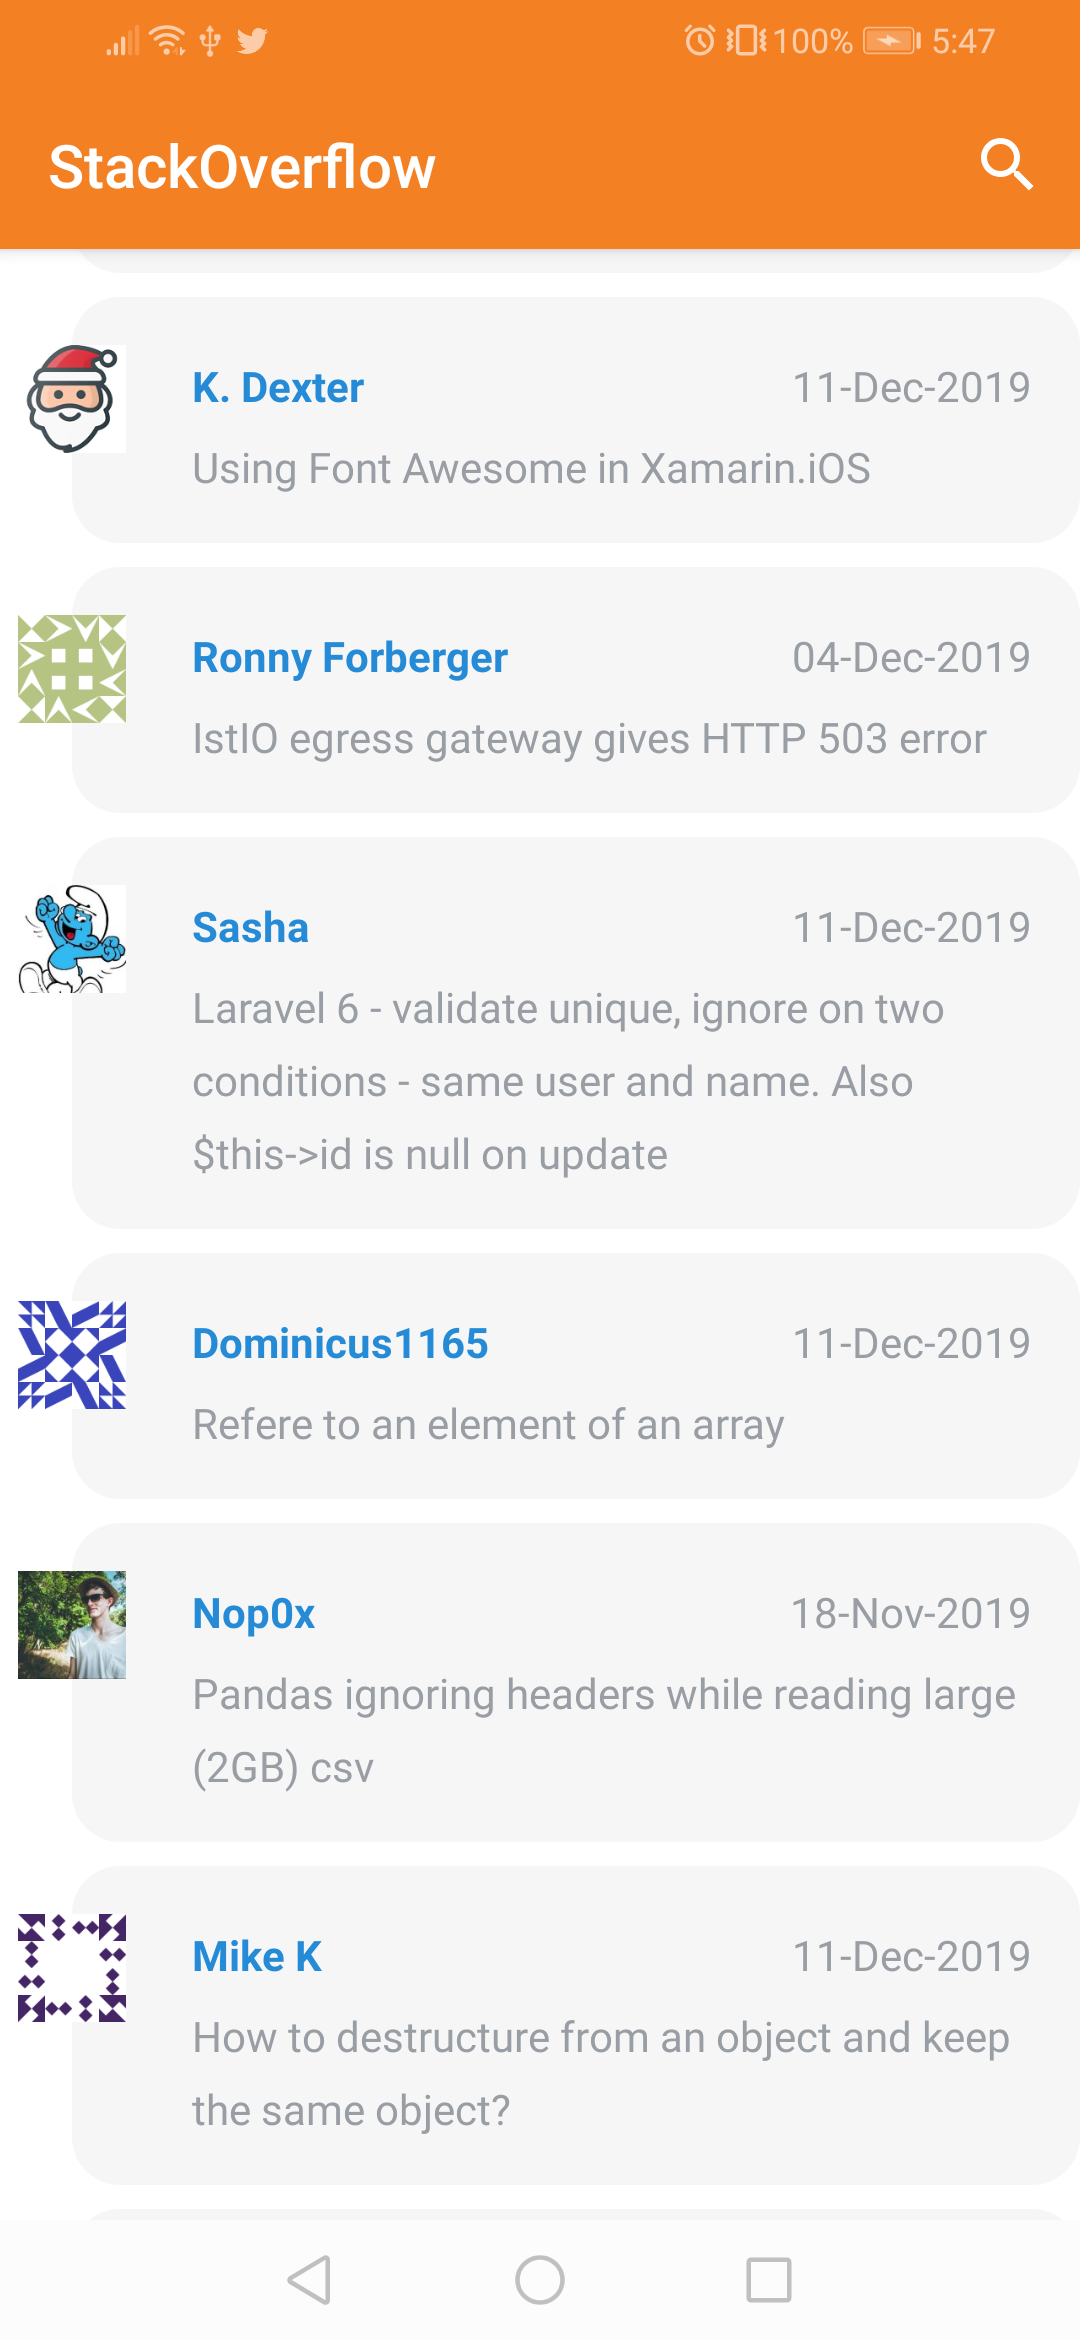
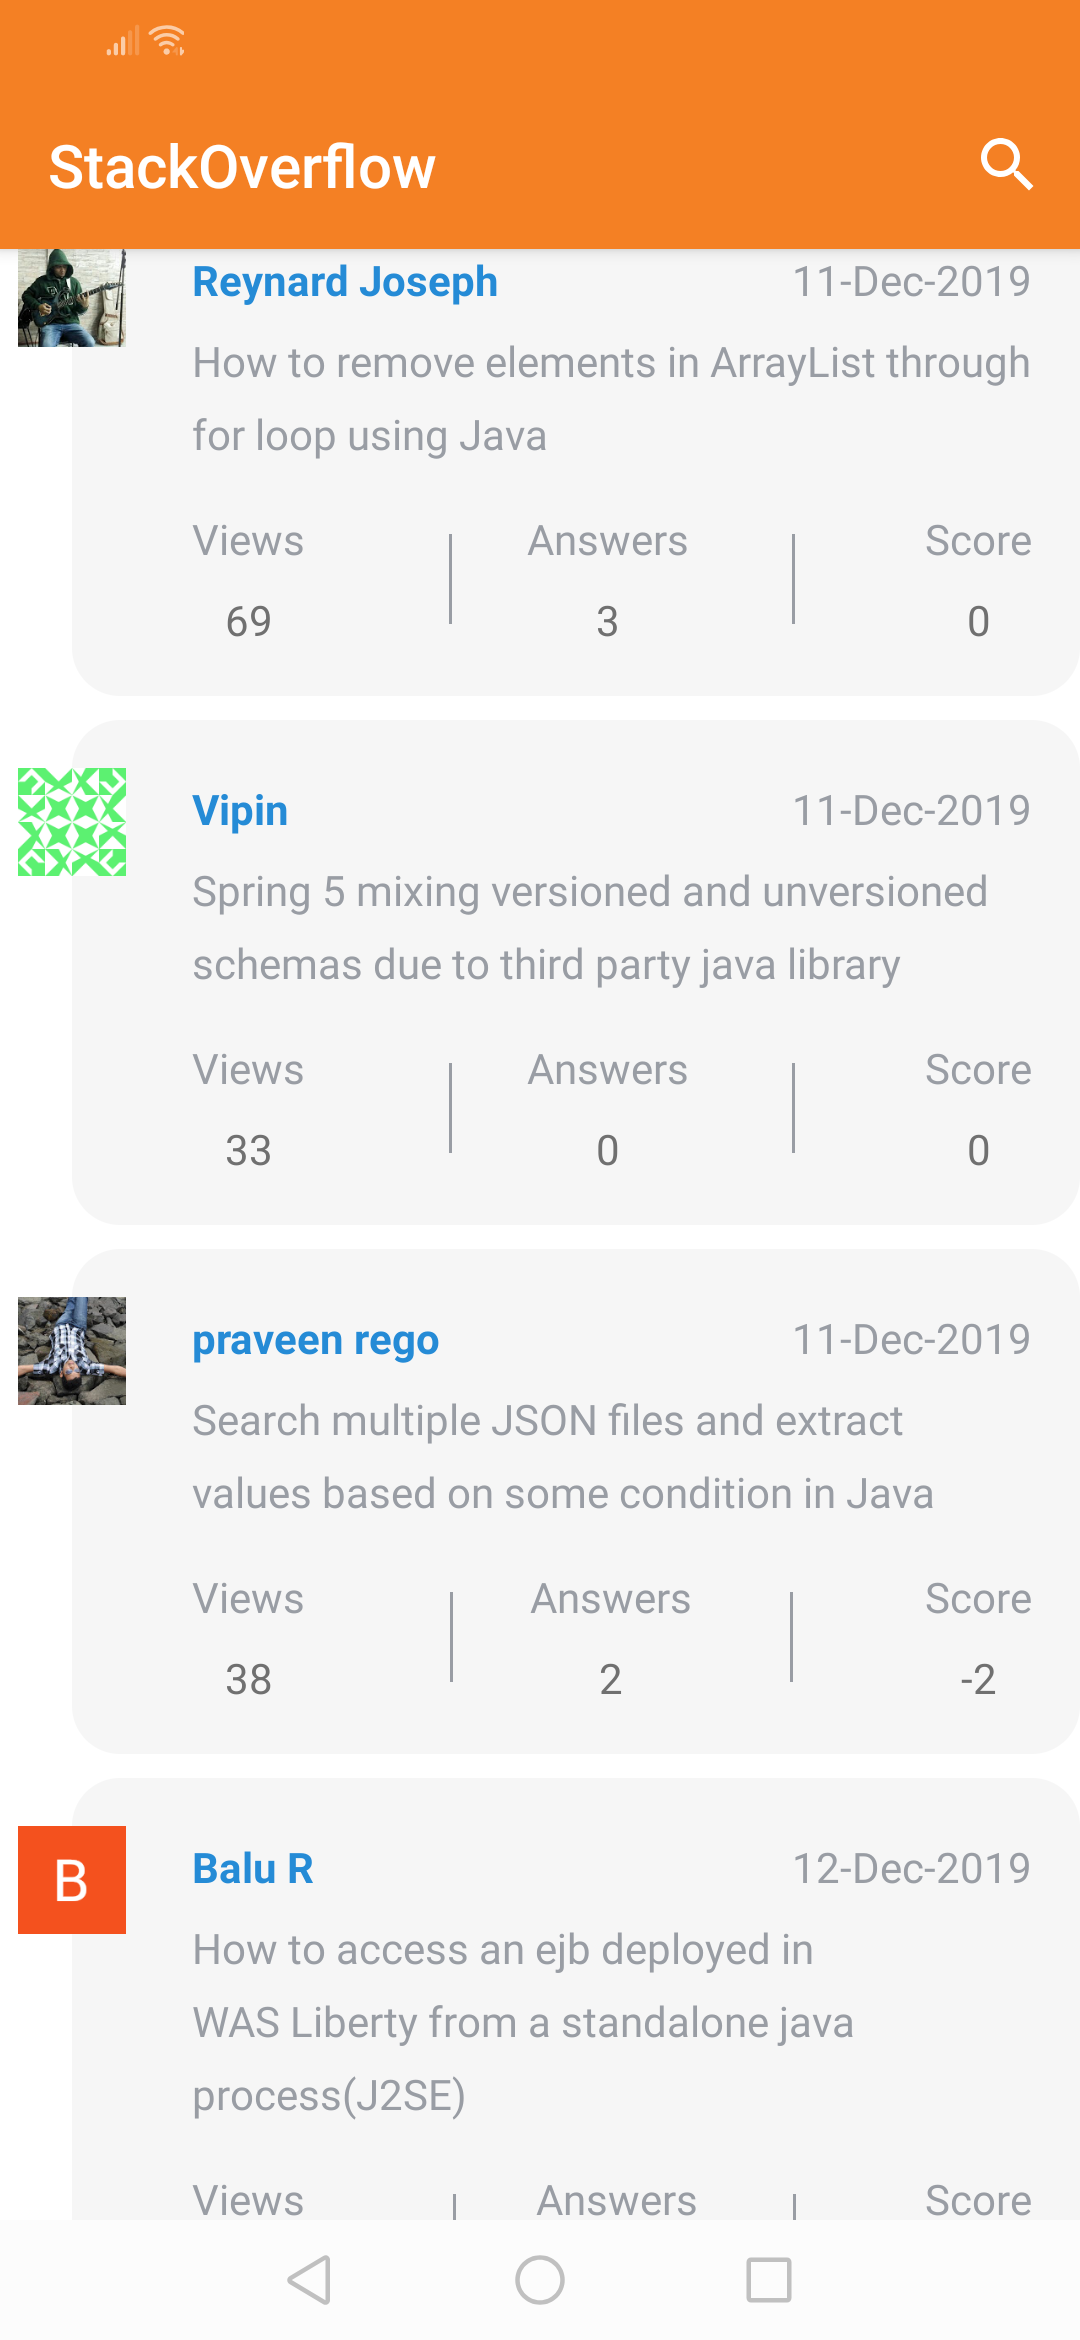
question item design chaged, answer item and details page design changed:

diff --git a/app/src/main/java/com/example/stackoverflow/Adapter/main/QuestionRecyclerAdapter.kt b/app/src/main/java/com/example/stackoverflow/Adapter/main/QuestionRecyclerAdapter.kt
@@ -48,6 +48,9 @@ class QuestionRecyclerAdapter(
         holder.questionText.text = Html.fromHtml(questions[position].title)
         holder.userName.text = Html.fromHtml(questions[position].owner.display_name)
         holder.questionDate.text = Html.fromHtml(getDate(questions[position].creation_date))
+        holder.questionAnswer.text = Html.fromHtml(questions[position].answer_count.toString())
+        holder.questionScore.text = Html.fromHtml(questions[position].score.toString())
+        holder.questionView.text = Html.fromHtml(questions[position].view_count.toString())
         Glide.with(context).load(questions[position].owner.profile_image).into(holder.userImage)
         holder.userImage.animation =
             AnimationUtils.loadAnimation(context, R.anim.fade_transition_animation)
@@ -63,11 +66,14 @@ class QuestionRecyclerAdapter(
 
     class QuestionHolder(itemView: View) : RecyclerView.ViewHolder(itemView) {
         val questionText = itemView.questionText
-        //        val answerCount = itemView.answerCount
+
         val questionDate = itemView.questionDate
         val userImage = itemView.userImg
         val userName = itemView.userName
         val container = itemView.container
+        val questionScore = itemView.questionScore
+        val questionAnswer = itemView.questionAnswers
+        val questionView = itemView.questionViews
     }
 
     private fun getDate(millis: Long): String {

diff --git a/app/src/main/java/com/example/stackoverflow/ui/details/DetailsActivity.kt b/app/src/main/java/com/example/stackoverflow/ui/details/DetailsActivity.kt
@@ -25,9 +25,10 @@ class DetailsActivity : AppCompatActivity(), IDetailPresenter.View, tagClickList
     }
 
     override fun setAnswers(answers: List<Answer>) {
+        var sortedList = answers.sortedWith(compareBy(Answer::is_accepted, Answer::score)).reversed()
         detailRecyclerView.layoutManager =
             LinearLayoutManager(this, LinearLayoutManager.VERTICAL, false)
-        detailRecyclerView.adapter = QuestionAnswerAdapter(answers, this)
+        detailRecyclerView.adapter = QuestionAnswerAdapter(sortedList, this)
         detailRecyclerView.isNestedScrollingEnabled = false
     }
 
